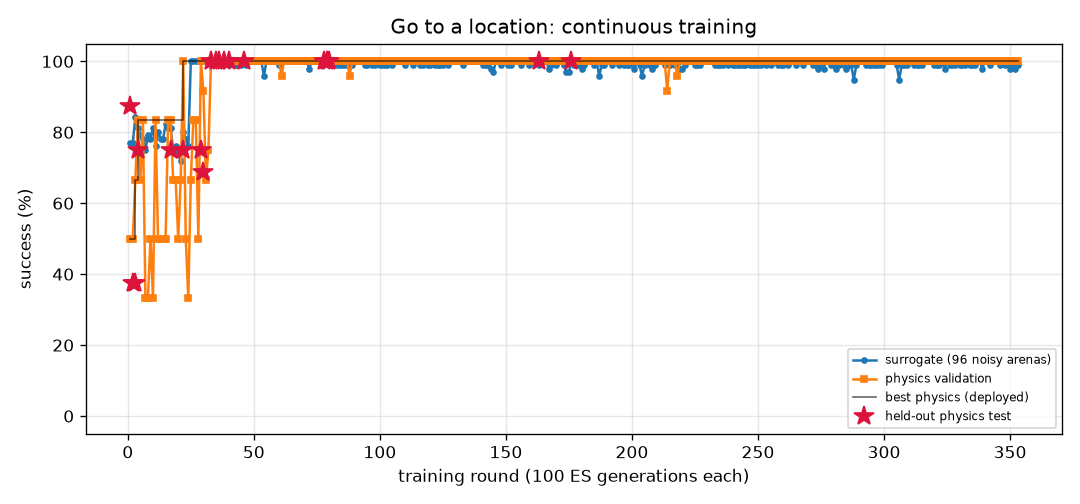
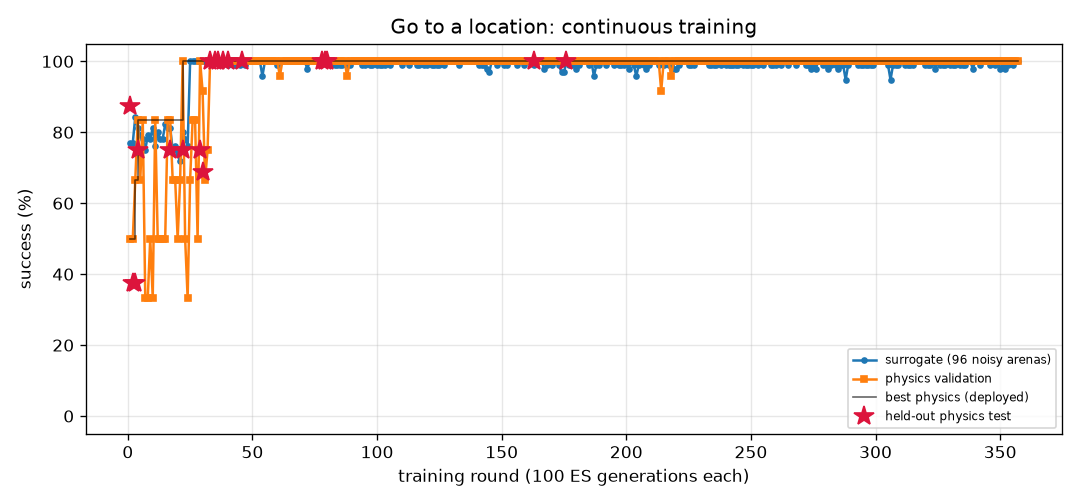
FlyLab: continuous training progress
- walk_forward: optimal, physics val 100% of 24, round 456
- turn: optimal, physics val 100% of 24, round 1211
- goto: optimal, physics val 100% of 24, round 357
- odor_seek: optimal, physics val 100% of 24, round 284
- odor_avoid: optimal, physics val 100% of 24, round 1037
- light_seek: optimal, physics val 100% of 24, round 558
- light_avoid: optimal, physics val 100% of 24, round 753

diff --git a/projects/09_flylab/training/goto/REPORT.md b/projects/09_flylab/training/goto/REPORT.md
@@ -1,14 +1,14 @@
 # Go to a location (`goto`) — training report
 
-*Auto-generated by `train_brains.py`, last updated 2026-11-20T16:58:04.*
+*Auto-generated by `train_brains.py`, last updated 2026-11-20T20:18:16.*
 
 ![curve](curve.png)
 
 | | |
 |---|---|
-| rounds | 353 |
-| ES generations | 35300 |
-| physics runs | 8422 |
+| rounds | 357 |
+| ES generations | 35700 |
+| physics runs | 8518 |
 | status | **optimal** |
 | best brain | round 176: physics validation **100%** on 24 arenas, surrogate 100% |
 | held-out physics test | **100%** on 32 unseen arenas (95% CI 89%-100%) (errors: [0.2, 0.32, 0.19, 0.24, 0.18, 0.2, 0.19, 0.17, 0.22, 0.23, 0.23, 0.26, 0.2, 0.19, 0.24, 0.23, 0.22, 0.24, 0.2, 0.22, 0.2, 0.2, 0.26, 0.19, 0.22, 0.18, 0.26, 0.22, 0.2, 0.26, 0.23, 0.23]) |
@@ -17,10 +17,6 @@ Physics error per arena: mm from target at the end (< 1.5 and standing still = s
 
 | round | level | gens | sigma | surrogate | physics val | val errors | test | note |
 |---:|---:|---:|---:|---:|---:|---|---:|---|
-| 314 | 3 | 31400 | 0.025 | 99% | 100% | [0.68, 0.65, 0.54, 0.52, 0.53, 0.51, 0.67, 0.54, 0.54, 0.51, 0.49, 0.51, 0.63, 0.5, 0.55, 0.56, 0.66, 0.55, 0.51, 0.61, 0.55, 0.5, 0.63, 0.53] |  |  |
-| 315 | 3 | 31500 | 0.025 | 99% | 100% | [0.53, 0.52, 0.37, 0.38, 0.4, 0.39, 0.48, 0.42, 0.45, 0.37, 0.37, 0.37, 0.48, 0.4, 0.43, 0.45, 0.52, 0.41, 0.37, 0.45, 0.41, 0.36, 0.5, 0.38] |  |  |
-| 316 | 3 | 31600 | 0.025 | 100% | 100% | [0.56, 0.55, 0.43, 0.41, 0.44, 0.4, 0.57, 0.45, 0.44, 0.42, 0.43, 0.41, 0.5, 0.43, 0.47, 0.55, 0.54, 0.44, 0.43, 0.48, 0.5, 0.42, 0.49, 0.41] |  | restart from best |
-| 317 | 3 | 31700 | 0.024 | 100% | 100% | [0.52, 0.57, 0.53, 0.57, 0.51, 0.53, 0.57, 0.56, 0.57, 0.53, 0.49, 0.55, 0.56, 0.53, 0.6, 0.58, 0.55, 0.52, 0.51, 0.6, 0.55, 0.56, 0.54, 0.55] |  |  |
 | 318 | 3 | 31800 | 0.024 | 100% | 100% | [0.5, 0.46, 0.47, 0.37, 0.35, 0.35, 0.5, 0.4, 0.43, 0.33, 0.32, 0.37, 0.46, 0.35, 0.42, 0.41, 0.48, 0.36, 0.32, 0.42, 0.39, 0.34, 0.48, 0.35] |  |  |
 | 319 | 3 | 31900 | 0.024 | 100% | 100% | [0.52, 0.54, 0.52, 0.48, 0.45, 0.46, 0.56, 0.49, 0.53, 0.44, 0.42, 0.47, 0.55, 0.42, 0.5, 0.49, 0.53, 0.48, 0.44, 0.52, 0.49, 0.46, 0.54, 0.47] |  |  |
 | 320 | 3 | 32000 | 0.024 | 99% | 100% | [0.53, 0.5, 0.5, 0.43, 0.4, 0.4, 0.54, 0.42, 0.43, 0.4, 0.38, 0.41, 0.48, 0.4, 0.49, 0.46, 0.57, 0.43, 0.38, 0.47, 0.44, 0.41, 0.51, 0.4] |  | restart from best |
@@ -57,3 +53,7 @@ Physics error per arena: mm from target at the end (< 1.5 and standing still = s
 | 351 | 3 | 35100 | 0.025 | 99% | 100% | [0.54, 0.55, 0.58, 0.49, 0.41, 0.49, 0.53, 0.53, 0.57, 0.4, 0.42, 0.47, 0.53, 0.36, 0.42, 0.47, 0.52, 0.52, 0.42, 0.48, 0.45, 0.39, 0.57, 0.47] |  |  |
 | 352 | 3 | 35200 | 0.025 | 98% | 100% | [0.5, 0.46, 0.44, 0.34, 0.35, 0.33, 0.49, 0.35, 0.44, 0.34, 0.33, 0.34, 0.42, 0.34, 0.36, 0.41, 0.45, 0.37, 0.34, 0.4, 0.38, 0.34, 0.42, 0.34] |  | restart from best |
 | 353 | 3 | 35300 | 0.024 | 99% | 100% | [0.53, 0.53, 0.46, 0.5, 0.43, 0.49, 0.58, 0.53, 0.56, 0.44, 0.45, 0.48, 0.53, 0.39, 0.48, 0.46, 0.56, 0.52, 0.46, 0.53, 0.45, 0.44, 0.5, 0.52] |  |  |
+| 354 | 3 | 35400 | 0.025 | 100% | 100% | [0.59, 0.53, 0.4, 0.43, 0.39, 0.41, 0.58, 0.44, 0.48, 0.4, 0.38, 0.42, 0.53, 0.38, 0.44, 0.43, 0.55, 0.46, 0.4, 0.47, 0.43, 0.42, 0.51, 0.43] |  |  |
+| 355 | 3 | 35500 | 0.024 | 99% | 100% | [0.54, 0.54, 0.4, 0.43, 0.4, 0.44, 0.49, 0.45, 0.47, 0.39, 0.39, 0.41, 0.49, 0.43, 0.42, 0.47, 0.54, 0.42, 0.39, 0.47, 0.44, 0.38, 0.52, 0.45] |  |  |
+| 356 | 3 | 35600 | 0.025 | 100% | 100% | [0.62, 0.58, 0.44, 0.45, 0.43, 0.46, 0.6, 0.45, 0.51, 0.45, 0.43, 0.45, 0.56, 0.43, 0.48, 0.49, 0.55, 0.49, 0.45, 0.5, 0.48, 0.45, 0.55, 0.46] |  | restart from best |
+| 357 | 3 | 35700 | 0.024 | 100% | 100% | [0.57, 0.53, 0.47, 0.52, 0.42, 0.47, 0.57, 0.54, 0.56, 0.45, 0.45, 0.52, 0.58, 0.43, 0.52, 0.49, 0.59, 0.47, 0.44, 0.56, 0.46, 0.49, 0.59, 0.49] |  |  |

diff --git a/projects/09_flylab/training/light_seek/REPORT.md b/projects/09_flylab/training/light_seek/REPORT.md
@@ -1,14 +1,14 @@
 # Walk toward light (`light_seek`) — training report
 
-*Auto-generated by `train_brains.py`, last updated 2026-11-20T19:25:43.*
+*Auto-generated by `train_brains.py`, last updated 2026-11-20T20:17:19.*
 
 ![curve](curve.png)
 
 | | |
 |---|---|
-| rounds | 555 |
-| ES generations | 55500 |
-| physics runs | 10200 |
+| rounds | 558 |
+| ES generations | 55800 |
+| physics runs | 10272 |
 | status | **optimal** |
 | best brain | round 375: physics validation **100%** on 24 arenas, surrogate 100% |
 | held-out physics test | **100%** on 32 unseen arenas (95% CI 89%-100%) (errors: [0.57, 0.54, 0.53, 0.57, 0.55, 0.56, 0.59, 0.56, 0.53, 0.56, 0.71, 0.56, 0.55, 0.54, 0.53, 0.54, 0.54, 0.55, 0.52, 0.65, 0.64, 0.7, 0.58, 0.57, 0.6, 0.62, 0.55, 0.88, 0.54, 0.52, 0.62, 0.57]) |
@@ -17,9 +17,6 @@ Physics error per arena: mm from target at the end (< 1.5 and standing still = s
 
 | round | level | gens | sigma | surrogate | physics val | val errors | test | note |
 |---:|---:|---:|---:|---:|---:|---|---:|---|
-| 516 | 3 | 51600 | 0.024 | 100% | 100% | [0.56, 0.52, 0.48, 1.14, 0.56, 0.51, 0.55, 0.52, 1.02, 0.57, 0.89, 0.51, 0.58, 0.49, 0.58, 0.58, 0.5, 0.54, 0.5, 0.97, 0.59, 0.66, 0.49, 0.57] |  |  |
-| 517 | 3 | 51700 | 0.024 | 100% | 100% | [1.05, 0.54, 0.53, 1.02, 0.63, 0.58, 0.56, 0.54, 0.63, 0.53, 0.61, 0.67, 0.55, 0.57, 1.12, 0.53, 0.52, 0.59, 0.59, 0.53, 0.59, 0.59, 0.58, 0.62] |  |  |
-| 518 | 3 | 51800 | 0.024 | 100% | 100% | [0.5, 0.57, 0.68, 0.54, 0.5, 0.53, 0.52, 0.59, 0.67, 0.5, 0.5, 0.52, 0.5, 0.55, 0.6, 0.5, 0.53, 0.52, 0.51, 0.5, 0.52, 0.61, 0.55, 0.55] |  |  |
 | 519 | 3 | 51900 | 0.024 | 100% | 100% | [0.65, 0.56, 0.63, 0.62, 0.56, 0.58, 0.56, 0.62, 0.69, 0.57, 0.5, 0.55, 0.56, 0.5, 0.76, 0.49, 0.55, 0.66, 0.53, 0.52, 0.62, 0.95, 0.58, 0.6] |  | restart from best |
 | 520 | 3 | 52000 | 0.024 | 100% | 100% | [0.45, 0.52, 0.57, 0.52, 0.55, 0.55, 0.54, 0.51, 0.57, 0.48, 0.49, 0.5, 0.52, 0.54, 0.53, 0.59, 0.55, 0.57, 0.52, 0.54, 0.48, 0.59, 0.55, 0.52] |  |  |
 | 521 | 3 | 52100 | 0.024 | 100% | 100% | [0.5, 0.76, 0.57, 0.54, 0.54, 0.55, 0.52, 0.58, 0.54, 0.7, 0.57, 0.5, 0.55, 0.59, 0.5, 0.56, 0.55, 0.56, 0.54, 0.61, 0.6, 0.51, 0.54, 0.58] |  |  |
@@ -57,3 +54,6 @@ Physics error per arena: mm from target at the end (< 1.5 and standing still = s
 | 553 | 3 | 55300 | 0.024 | 100% | 100% | [1.1, 0.9, 0.72, 0.99, 0.91, 0.71, 0.61, 0.97, 0.68, 0.58, 0.65, 0.59, 0.95, 0.64, 0.65, 0.99, 1.1, 0.64, 0.89, 0.94, 0.6, 0.59, 0.58, 0.63] |  |  |
 | 554 | 3 | 55400 | 0.024 | 100% | 100% | [0.74, 0.69, 0.59, 0.77, 0.7, 0.61, 0.75, 0.7, 1.28, 0.63, 0.72, 0.68, 0.65, 0.68, 0.68, 0.73, 0.68, 0.65, 0.72, 0.74, 0.57, 0.67, 0.67, 1.02] |  |  |
 | 555 | 3 | 55500 | 0.024 | 99% | 100% | [0.74, 0.76, 0.64, 0.68, 0.7, 0.65, 0.69, 0.62, 0.66, 0.68, 0.66, 0.57, 0.67, 0.67, 0.7, 0.6, 0.61, 0.66, 0.61, 0.66, 0.77, 0.6, 0.74, 0.82] |  | restart from best |
+| 556 | 3 | 55600 | 0.024 | 100% | 100% | [0.57, 0.58, 0.58, 0.55, 0.63, 0.54, 0.49, 0.69, 0.64, 0.58, 0.59, 0.68, 0.55, 0.68, 1.07, 0.57, 0.61, 0.63, 0.53, 0.5, 0.66, 0.52, 0.58, 0.86] |  |  |
+| 557 | 3 | 55700 | 0.024 | 100% | 100% | [1.1, 0.65, 0.57, 1.26, 0.62, 0.63, 1.15, 0.65, 0.78, 0.64, 0.74, 0.68, 0.59, 0.58, 0.58, 0.69, 0.6, 1.31, 0.73, 0.71, 0.62, 0.69, 0.68, 0.76] |  |  |
+| 558 | 3 | 55800 | 0.024 | 100% | 100% | [0.64, 1.09, 0.67, 0.71, 0.52, 0.6, 0.67, 0.8, 0.65, 0.62, 0.62, 0.59, 0.89, 0.61, 0.64, 0.62, 0.58, 0.77, 0.58, 0.63, 0.63, 0.55, 0.7, 1.2] |  |  |

diff --git a/projects/09_flylab/training/TRAINING.md b/projects/09_flylab/training/TRAINING.md
@@ -1,6 +1,6 @@
 # FlyLab brains — continuous training log
 
-*Auto-generated by `train_brains.py`, last updated 2026-11-20T19:25:43.*
+*Auto-generated by `train_brains.py`, last updated 2026-11-20T20:18:16.*
 
 Every skill has its own brain and its own training process: surrogate ES rounds, physics validation in MuJoCo, keep-the-best selection, and a held-out physics test that is never used for selection. See each skill's report for its full round-by-round history. Mastery is progressive: passing a level (100% physics validation, >=95% surrogate) doubles the validation and test arena sets; a brain is **optimal** once it holds up at level 3 (>=95% of 24 validation arenas) AND scores >=90% on the 32 held-out test arenas. Test columns show 95% Wilson confidence intervals.
 
@@ -8,8 +8,8 @@ Every skill has its own brain and its own training process: surrogate ES rounds,
 |---|---:|---:|---:|---:|---:|---:|---|
 | [Walk forward](walk_forward/REPORT.md) | 456 | 45600 | 10990 | 99% | 100% of 24 | 100% of 32 (CI 89-100%) | **optimal** |
 | [Turn in place](turn/REPORT.md) | 1211 | 121100 | 29310 | 100% | 100% of 24 | 97% of 32 (CI 84-99%) | **optimal** |
-| [Go to a location](goto/REPORT.md) | 353 | 35300 | 8422 | 100% | 100% of 24 | 100% of 32 (CI 89-100%) | **optimal** |
+| [Go to a location](goto/REPORT.md) | 357 | 35700 | 8518 | 100% | 100% of 24 | 100% of 32 (CI 89-100%) | **optimal** |
 | [Find food by smell](odor_seek/REPORT.md) | 284 | 28400 | 6310 | 100% | 100% of 24 | 100% of 32 (CI 89-100%) | **optimal** |
 | [Escape a bad smell](odor_avoid/REPORT.md) | 1037 | 103700 | 22194 | 97% | 100% of 24 | 97% of 32 (CI 84-99%) | **optimal** |
-| [Walk toward light](light_seek/REPORT.md) | 555 | 55500 | 10200 | 100% | 100% of 24 | 100% of 32 (CI 89-100%) | **optimal** |
+| [Walk toward light](light_seek/REPORT.md) | 558 | 55800 | 10272 | 100% | 100% of 24 | 100% of 32 (CI 89-100%) | **optimal** |
 | [Hide from light](light_avoid/REPORT.md) | 753 | 75300 | 18344 | 100% | 100% of 24 | 100% of 32 (CI 89-100%) | **optimal** |
